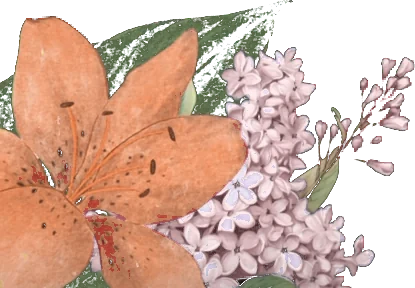
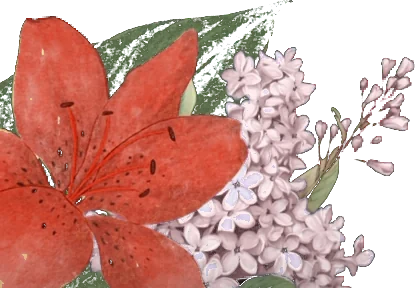
Layout original das flores com nova paleta de cores

diff --git a/index.html b/index.html
@@ -10,8 +10,8 @@
 <meta property="og:title" content="Isis Paranho Viana · Formatura em Medicina">
 <meta property="og:description" content="Você é meu convidado especial. Toque para abrir o convite.">
 <meta property="og:url" content="https://isisparanho-debug.github.io/formatura/">
-<meta property="og:image" content="https://isisparanho-debug.github.io/formatura/og4.jpg">
-<meta property="og:image:secure_url" content="https://isisparanho-debug.github.io/formatura/og4.jpg">
+<meta property="og:image" content="https://isisparanho-debug.github.io/formatura/og5.jpg">
+<meta property="og:image:secure_url" content="https://isisparanho-debug.github.io/formatura/og5.jpg">
 <meta property="og:image:type" content="image/jpeg">
 <meta property="og:locale" content="pt_BR">
 <meta property="og:image:width" content="1200"><meta property="og:image:height" content="630">
@@ -135,7 +135,6 @@ img{display:block;max-width:none}
 /* ---------- PRESENTES ---------- */
 #presentes{background:repeating-linear-gradient(90deg,var(--stripe) 0 11px,#f4ecdf 11px 22px);padding:26px 11px}
 .gpanel{background:var(--green);padding:74px 16px 40px;position:relative;text-align:center;color:#efe6d4}
-.gpanel{overflow:hidden}
 .gpanel h2{font-size:clamp(40px,11.5vw,50px);margin:0;color:#f6eedf;line-height:1.2;position:relative;z-index:2}
 .gpanel .lead{font-style:italic;font-size:14.5px;line-height:1.65;margin:24px 4px 30px;color:#ddd2bd;position:relative;z-index:2}
 .gifts{display:grid;gap:16px;text-align:left;position:relative;z-index:2}
@@ -172,7 +171,7 @@ img{display:block;max-width:none}
 .note b{color:var(--rust);font-weight:600}
 .ghd{display:flex;align-items:center;gap:12px;color:var(--rust);font-size:13px;letter-spacing:.28em;text-transform:uppercase;margin:36px 0 18px;padding-bottom:14px;border-bottom:1px solid #d7bfa8}
 .ghd svg{width:22px;height:22px}
-.places{display:grid;gap:14px;text-align:left;position:relative;z-index:2}
+.places{display:grid;gap:14px;text-align:left}
 .place{background:var(--paper);border:1px solid #ead9c6;border-radius:16px;padding:20px 18px 18px}
 .place h3{margin:0;font-weight:400;font-size:20px;color:#3a0d0a;line-height:1.3}
 .place p{margin:2px 0 14px;font-style:italic;color:#5d3a30;font-size:16px}
@@ -180,8 +179,8 @@ img{display:block;max-width:none}
 .pbtns .btn{width:auto;min-height:44px;padding:0 15px;gap:9px;font-size:11px;letter-spacing:.13em}
 
 /* ---------- FOOTER ---------- */
-footer{position:relative;overflow:hidden;background:var(--green2);text-align:center;color:#e9dfcc;padding:80px 20px 150px}
-footer .seal{position:relative;z-index:2;width:92px;margin:0 auto 18px;filter:drop-shadow(0 4px 6px rgba(0,0,0,.35))}
+footer{position:relative;background:var(--green2);text-align:center;color:#e9dfcc;padding:80px 20px 150px}
+footer .seal{width:92px;margin:0 auto 18px;filter:drop-shadow(0 4px 6px rgba(0,0,0,.35))}
 footer .script{font-size:38px;color:#efe5d2}
 footer p{margin:6px 0 0;font-style:italic;color:#cfc5b0}
 footer .caps{display:block;margin-top:18px;font-size:11px;letter-spacing:.3em;color:#9da08b}
@@ -315,7 +314,6 @@ footer .caps{display:block;margin-top:18px;font-size:11px;letter-spacing:.3em;co
   <img class="fl" src="img/tl.webp" alt="" style="left:-30px;top:-10px;width:28%;z-index:3">
   <img class="fl" src="img/lilac.webp" alt="" style="right:-34px;top:34%;width:22%;z-index:1">
   <img class="fl" src="img/bl.webp" alt="" style="left:-50px;top:62%;width:30%;z-index:1">
-  <img class="fl" src="img/calla.webp" alt="" style="right:-6px;top:-30px;width:18%;z-index:3;transform:rotate(14deg)">
   <div class="ticket rv">
     <svg class="cap" viewBox="0 0 360 58" preserveAspectRatio="none" aria-hidden="true">
       <path d="M4.5 60V40A18 18 0 0 0 22.5 22H128C152 22 156 4.5 180 4.5S208 22 232 22H337.5A18 18 0 0 0 355.5 40V60" fill="#f2e7d8" stroke="#9b3b08" stroke-width="9" vector-effect="non-scaling-stroke"/>
@@ -368,11 +366,10 @@ footer .caps{display:block;margin-top:18px;font-size:11px;letter-spacing:.3em;co
 <!-- ========== PRESENTES ========== -->
 <section id="presentes">
   <div class="gpanel">
-    <img class="fl" src="img/calla_w.webp" alt="" style="right:-14px;top:40px;width:26%">
+    <img class="fl" src="img/calla.webp" alt="" style="right:-14px;top:40px;width:26%">
     <h2 class="script rv">Quer presentear<br>a nova médica?</h2>
     <p class="lead rv">Se quiser presentear a formanda, o valor fica a seu critério. O Pix vai direto para a conta dela.</p>
     <div class="gifts" id="gifts"></div>
-    <img class="fl" src="img/bl.webp" alt="" style="left:-16px;bottom:-6px;width:42%;z-index:1">
     <div class="physical rv"><div class="gico"><svg><use href="#i-gift"/></svg></div><div><h3>Presentes físicos também são bem-vindos</h3><p>Se preferir, você pode entregar o seu presente no dia da festa.</p></div></div>
   </div>
 </section>
@@ -391,12 +388,9 @@ footer .caps{display:block;margin-top:18px;font-size:11px;letter-spacing:.3em;co
   <div class="places" id="hoteis"></div>
   <div class="ghd rv"><svg><use href="#i-sciss"/></svg>Onde se arrumar</div>
   <div class="places" id="saloes"></div>
-  <img class="fl" src="img/br_np.webp" alt="" style="left:-6px;bottom:-10px;width:22%;z-index:0;opacity:.95">
 </section>
 
 <footer>
-  <img class="fl" src="img/tl_np.webp" alt="" style="left:-4px;top:-6px;width:30%">
-  <img class="fl" src="img/lilac_ff.webp" alt="" style="right:-4px;top:-4px;width:22%">
   <img class="seal" src="img/seal.webp" alt="">
   <div class="script">Com carinho, Isis</div>
   <p>Obrigada por fazer parte desta história.</p>
